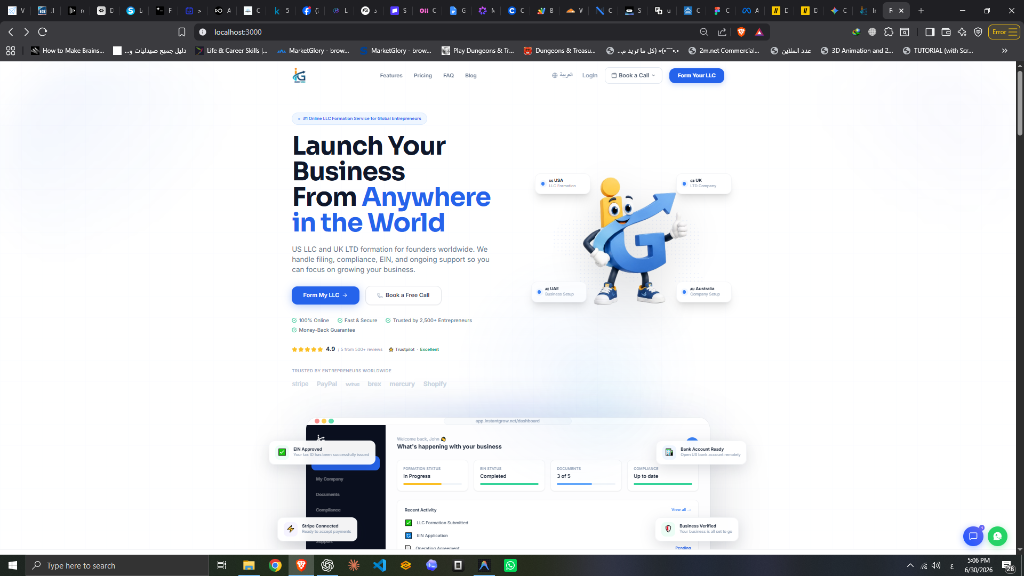
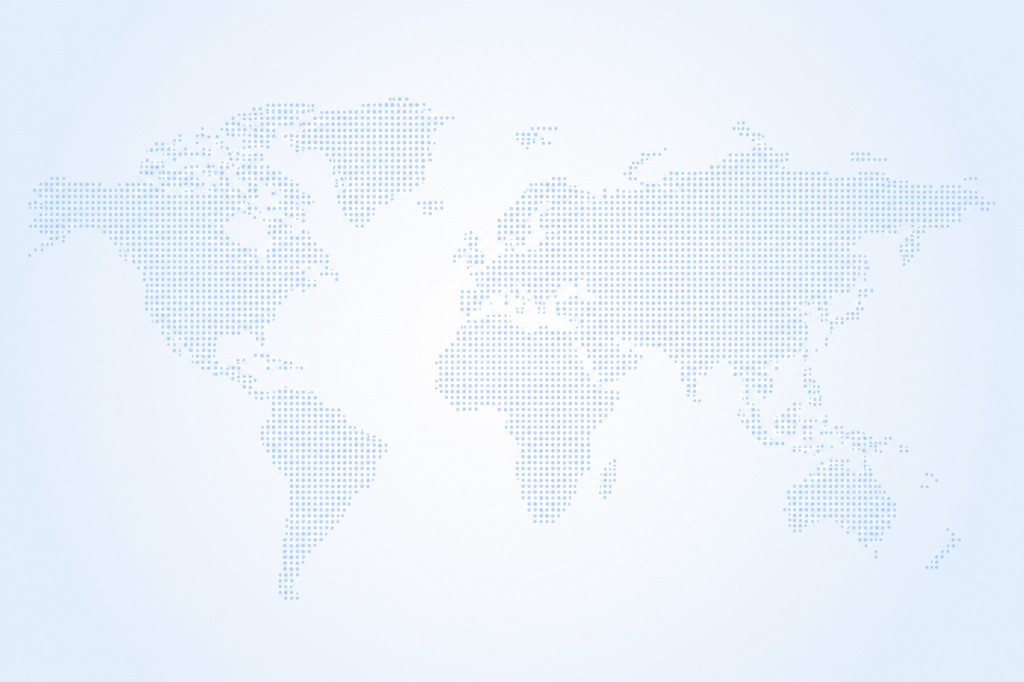
feat: add animation key trigger to the third pricing card to sync entry transition animations with tabs

diff --git a/src/components/Hero.tsx b/src/components/Hero.tsx
@@ -44,16 +44,17 @@ function WorldMapDots() {
 
 /* ── Country Pin Card ─────────────────────────────────────────────────────── */
 interface PinCardProps {
+  flag: string
   country: string
   label: string
   style: React.CSSProperties
   delay?: number
 }
-function PinCard({ country, label, style, delay = 0 }: PinCardProps) {
+function PinCard({ flag, country, label, style, delay = 0 }: PinCardProps) {
   return (
     <motion.div
-      className="hidden sm:flex absolute bg-white/90 backdrop-blur-sm rounded-2xl shadow-lg border border-gray-100/50 px-3.5 py-2.5 items-center gap-2.5 z-20 hover:scale-105 transition-transform duration-200"
-      style={{ ...style, minWidth: 140 }}
+      className="hidden sm:flex absolute bg-white rounded-2xl shadow-xl border border-gray-100/80 px-4 py-3 items-center gap-3 z-20"
+      style={{ ...style, minWidth: 156 }}
       initial={{ opacity: 0, scale: 0.8, y: 10 }}
       animate={{ opacity: 1, scale: 1, y: 0 }}
       transition={{ delay: 0.8 + delay, duration: 0.5, ease: [0.16, 1, 0.3, 1] }}
@@ -64,8 +65,8 @@ function PinCard({ country, label, style, delay = 0 }: PinCardProps) {
         <span className="w-2.5 h-2.5 rounded-full bg-blue-500 relative" />
       </span>
       <div className="min-w-0">
-        <p className="text-xs font-extrabold text-slate-800 leading-none">{country}</p>
-        <p className="text-[10px] text-slate-400 mt-1 truncate">{label}</p>
+        <p className="text-xs font-bold text-slate-800 leading-none">{flag} {country}</p>
+        <p className="text-[11px] text-slate-400 mt-1 truncate">{label}</p>
       </div>
     </motion.div>
   )
@@ -266,43 +267,36 @@ export default function Hero() {
 
           {/* ── RIGHT COLUMN (45%) — World Map + Mascot + Country Pins ─────── */}
           <motion.div
-            className="w-full lg:w-[48%] relative flex items-center justify-center"
+            className="w-full lg:w-[45%] relative flex items-center justify-center h-[350px] sm:h-[450px] lg:h-[520px]"
             initial={{ opacity: 0 }}
             animate={{ opacity: 1 }}
             transition={{ delay: 0.3, duration: 0.8 }}
           >
-            {/* Relative container with aspect ratio for map alignment */}
-            <div className="relative w-full aspect-[3/2] max-w-[650px] mx-auto flex items-center justify-center">
-              
-              {/* World map background image */}
-              <div className="absolute inset-0 flex items-center justify-center">
-                <img
-                  src="/world-map.png"
-                  alt="World Map"
-                  className="w-full h-full object-contain opacity-90 select-none pointer-events-none"
-                />
+            {/* World map dots background */}
+            <div className="absolute inset-0 flex items-center justify-center">
+              <div className="relative w-full h-full">
+                <WorldMapDots />
               </div>
-
-              {/* Mascot — floating animation */}
-              <motion.div
-                className="relative z-10 w-[35%] sm:w-[40%] drop-shadow-[0_25px_45px_rgba(0,0,0,0.12)]"
-                animate={{ y: [-8, 6, -8] }}
-                transition={{ duration: 6, repeat: Infinity, ease: 'easeInOut' }}
-              >
-                <img
-                  src="/mascot-hero.png"
-                  alt="Instant Grow Mascot"
-                  className="w-full h-auto select-none"
-                />
-              </motion.div>
-
-              {/* Country pin cards placed at actual geographical coordinates */}
-              <PinCard country={isAr ? "أمريكا" : "USA"} label={isAr ? "تأسيس شركة LLC" : "LLC Formation"} style={{ top: '28%', left: '16%' }} delay={0} />
-              <PinCard country={isAr ? "بريطانيا" : "UK"} label={isAr ? "تأسيس شركة LTD" : "LTD Company"} style={{ top: '20%', left: '46%' }} delay={0.15} />
-              <PinCard country={isAr ? "الإمارات" : "UAE"} label={isAr ? "تأسيس أعمال" : "Business Setup"} style={{ top: '38%', left: '60%' }} delay={0.3} />
-              <PinCard country={isAr ? "أستراليا" : "Australia"} label={isAr ? "تأسيس شركة" : "Company Setup"} style={{ top: '72%', left: '80%' }} delay={0.45} />
-
             </div>
+
+            {/* Mascot — floating animation */}
+            <motion.div
+              className="relative z-10 w-[240px] sm:w-[320px] lg:w-[380px] xl:w-[420px] drop-shadow-[0_35px_50px_rgba(0,0,0,0.14)]"
+              animate={{ y: [-12, 8, -12] }}
+              transition={{ duration: 6, repeat: Infinity, ease: 'easeInOut' }}
+            >
+              <img
+                src="/mascot-hero.png"
+                alt="Instant Grow Mascot"
+                className="w-full h-auto select-none"
+              />
+            </motion.div>
+
+            {/* Country pin cards */}
+            <PinCard flag="🇺🇸" country="USA" label="LLC Formation" style={{ top: '8%', left: '0%' }} delay={0} />
+            <PinCard flag="🇬🇧" country="UK" label="LTD Company" style={{ top: '8%', right: '-4%' }} delay={0.15} />
+            <PinCard flag="🇦🇪" country="UAE" label="Business Setup" style={{ bottom: '22%', left: '-2%' }} delay={0.3} />
+            <PinCard flag="🇦🇺" country="Australia" label="Company Setup" style={{ bottom: '22%', right: '-4%' }} delay={0.45} />
           </motion.div>
         </div>
 

diff --git a/src/components/Pricing.tsx b/src/components/Pricing.tsx
@@ -453,6 +453,7 @@ export default function Pricing() {
 
           {/* Card 3: Consultation / Need Something Custom */}
           <motion.div
+            key={`consultation-${region}`}
             initial={{ opacity: 0, y: 24 }}
             animate={{ opacity: 1, y: 0 }}
             transition={{ duration: 0.5, delay: 0.15 }}